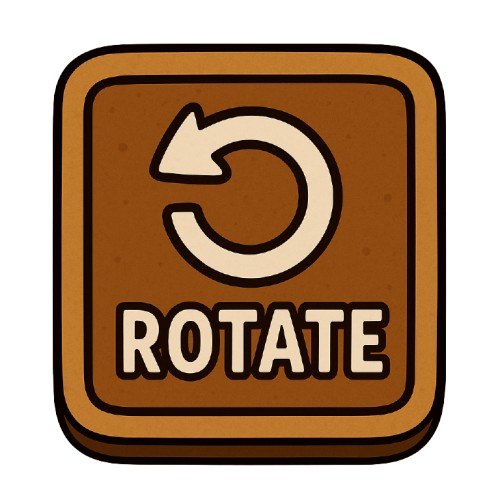
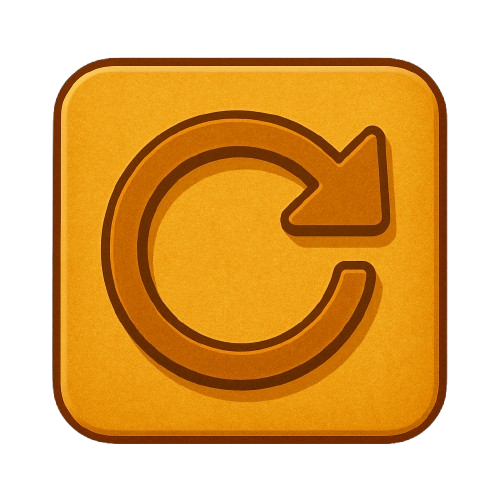
Updated hidden component deck and rotate images

diff --git a/src/main/java/org/progetto/client/gui/BuildingView.java b/src/main/java/org/progetto/client/gui/BuildingView.java
@@ -151,7 +151,11 @@ public class BuildingView {
         trash.setOnDragDropped(event -> {discardComponent();});
 
         // Initialize hidden component deck
-        componentDeck.setImage(new Image(String.valueOf(MainClient.class.getResource("img/hidden-deck.png"))));
+        if (GameData.getLevelGame() == 1)
+            componentDeck.setImage(new Image(String.valueOf(MainClient.class.getResource("img/hidden-deck-1.png"))));
+        else
+            componentDeck.setImage(new Image(String.valueOf(MainClient.class.getResource("img/hidden-deck-2.png"))));
+
         componentDeck.setOnMouseClicked(event -> {
             pickHiddenComponent();
         });
